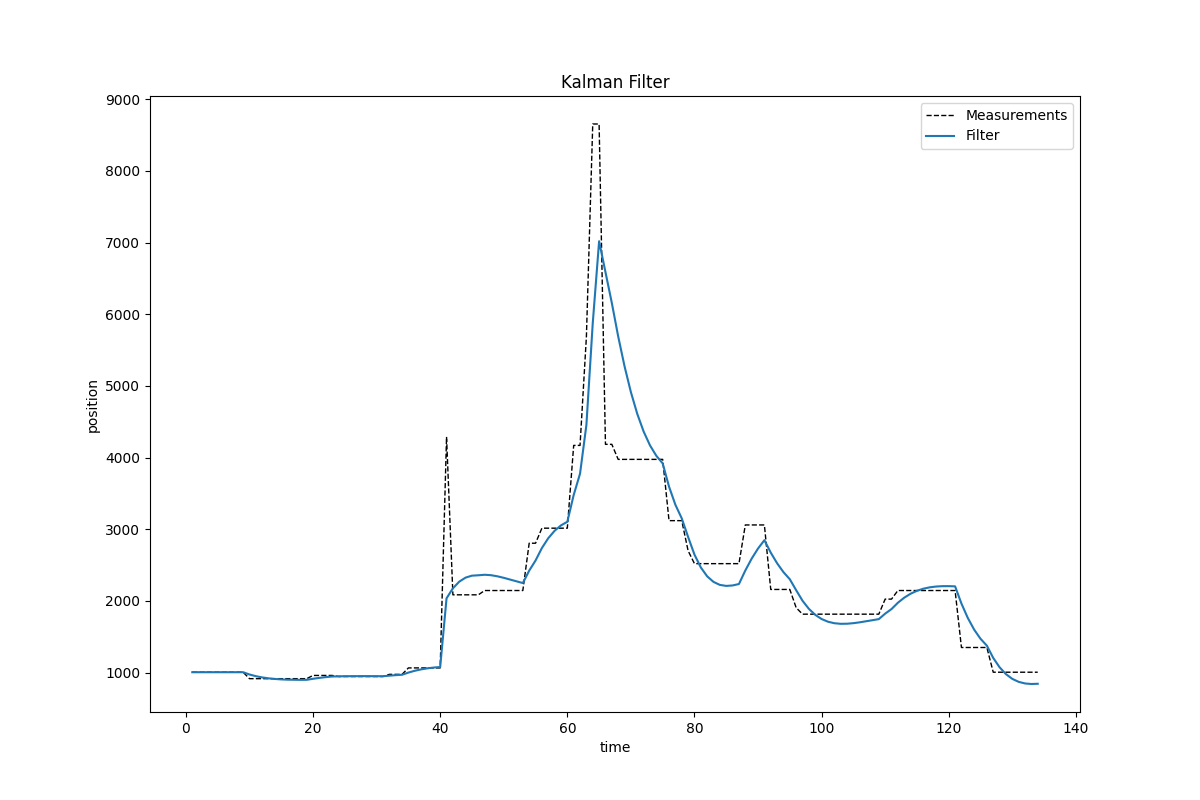
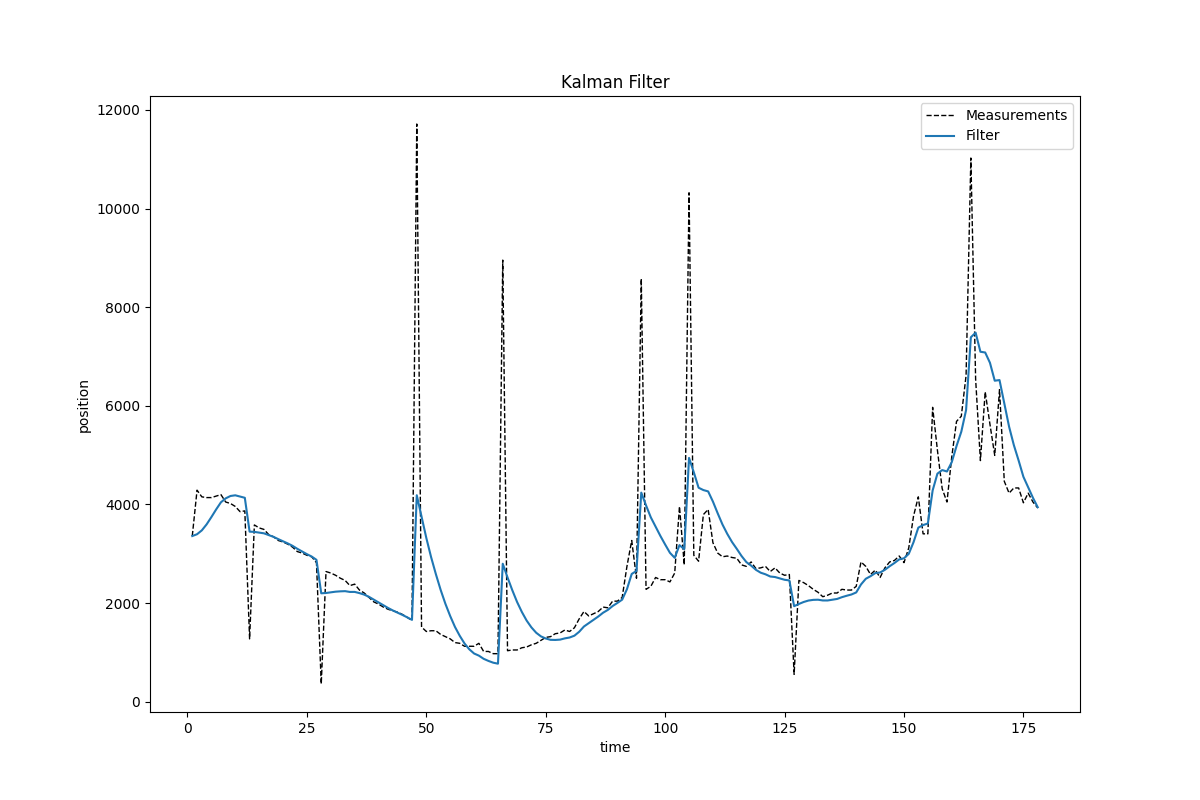
more kalman plotting

diff --git a/kalman_plotting_borrowed.py b/kalman_plotting_borrowed.py
@@ -1,0 +1,114 @@
+import numpy as np
+from matplotlib import pyplot as plt
+
+
+def plot_track(ps, actual, zs, cov, std_scale=1,
+               plot_P=True, y_lim=None,
+               xlabel='time', ylabel='position',
+               title='Kalman Filter'):
+
+    count = len(zs)
+    zs = np.asarray(zs)
+
+    cov = np.asarray(cov)
+    std = std_scale * np.sqrt(cov[:, 0, 0])
+    std_top = np.minimum(actual+std, [count + 10])
+    std_btm = np.maximum(actual-std, [-50])
+
+    std_top = actual + std
+    std_btm = actual - std
+
+    bp_plot_track(actual, c='k')
+    bp_plot_measurements(range(1, count + 1), zs)
+    bp_plot_filter(range(1, count + 1), ps)
+
+    plt.plot(std_top, linestyle=':', color='k', lw=1, alpha=0.4)
+    plt.plot(std_btm, linestyle=':', color='k', lw=1, alpha=0.4)
+    plt.fill_between(range(len(std_top)), std_top, std_btm,
+                     facecolor='yellow', alpha=0.2, interpolate=True)
+    plt.legend(loc=4)
+    plt.xlabel(xlabel)
+    plt.ylabel(ylabel)
+    if y_lim is not None:
+        plt.ylim(y_lim)
+
+    plt.xlim((0, count))
+    plt.title(title)
+    plt.show()
+
+    if plot_P:
+        ax = plt.subplot(121)
+        ax.set_title(r"$\sigma^2_x$ (pos variance)")
+        plot_covariance(cov, (0, 0))
+        ax = plt.subplot(122)
+        ax.set_title(r"$\sigma^2_\dot{x}$ (vel variance)")
+        plot_covariance(cov, (1, 1))
+        plt.show()
+
+
+def bp_plot_track(xs, ys=None, dt=None, label='Track', c='k', lw=2, **kwargs):
+    if ys is None and dt is not None:
+        ys = xs
+        xs = np.arange(0, len(ys)*dt, dt)
+    if ys is not None:
+        return plt.plot(xs, ys, color=c, lw=lw, ls=':', label=label, **kwargs)
+    else:
+        return plt.plot(xs, color=c, lw=lw, ls=':', label=label, **kwargs)
+    
+def bp_plot_filter(xs, ys=None, dt=None, c='C0', label='Filter', var=None, **kwargs):
+    """ plot result of KF with color `c`, optionally displaying the variance
+    of `xs`. Returns the list of lines generated by plt.plot()"""
+
+    if ys is None and dt is not None:
+        ys = xs
+        xs = np.arange(0, len(ys) * dt, dt)
+    if ys is None:
+        ys = xs
+        xs = range(len(ys))
+
+    lines = plt.plot(xs, ys, color=c, label=label, **kwargs)
+    if var is None:
+        return lines
+
+    var = np.asarray(var)
+    std = np.sqrt(var)
+    std_top = ys+std
+    std_btm = ys-std
+
+    plt.plot(xs, ys+std, linestyle=':', color='k', lw=2)
+    plt.plot(xs, ys-std, linestyle=':', color='k', lw=2)
+    plt.fill_between(xs, std_btm, std_top,
+                     facecolor='yellow', alpha=0.2)
+
+    return lines
+
+
+def bp_plot_measurements(xs, ys=None, dt=None, color='k', lw=1, label='Measurements',
+                      lines=False, **kwargs):
+    """ Helper function to give a consistent way to display
+    measurements in the book.
+    """
+    if ys is None and dt is not None:
+        ys = xs
+        xs = np.arange(0, len(ys)*dt, dt)
+
+    plt.autoscale(tight=False)
+    if lines:
+        if ys is not None:
+            return plt.plot(xs, ys, color=color, lw=lw, ls='--', label=label, **kwargs)
+        else:
+            return plt.plot(xs, color=color, lw=lw, ls='--', label=label, **kwargs)
+    else:
+        if ys is not None:
+            return plt.scatter(xs, ys, edgecolor=color, facecolor='none',
+                        lw=2, label=label, **kwargs),
+        else:
+            return plt.scatter(range(len(xs)), xs, edgecolor=color, facecolor='none',
+                        lw=2, label=label, **kwargs),
+
+
+def plot_covariance(P, index=(0, 0)):
+    ps = []
+    for p in P:
+        ps.append(p[index[0], index[1]])
+    plt.plot(ps)

diff --git a/kalman_plotting.py b/kalman_plotting.py
@@ -6,10 +6,38 @@ from matplotlib.patches import Circle
 import numpy as np
 import os
 
+def new_plotter(s, truth):
+    saved_states = s.x
+    measurements = s.z
+    estimated_positions = [state[0] for state in saved_states]  # Assuming position is the first state
+
+    plt.figure(figsize=(10, 6))
+    plt.plot(truth, label='True Positions', linestyle='--')
+    plt.plot(measurements, label='Measurements', marker='o', alpha=0.6)
+    plt.plot(estimated_positions, label='Kalman Filter Estimate', linewidth=2)
+    plt.xlabel('Time Step')
+    plt.ylabel('Position')
+    plt.title('Kalman Filter Tracking')
+    plt.legend()
+    plt.grid()
+    plt.show()
+
+    residuals = [measurement - estimate for measurement, estimate in zip(measurements, estimated_positions)]
+    plt.figure(figsize=(10, 6))
+    plt.plot(residuals, label='Residuals', marker='o')
+    plt.axhline(0, color='red', linestyle='--')
+    plt.xlabel('Time Step')
+    plt.ylabel('Residual')
+    plt.title('Residuals of Kalman Filter')
+    plt.legend()
+    plt.grid()
+    plt.show()
+
+
 def plot_results(ps, zs, cov, actual=None, std_scale=1,
                  plot_P=True, y_lim=None, 
                  xlabel='time', ylabel='position',
-                 title='Kalman Filter'):
+                 title='Kalman Filter', figname='kalmanplot'):
     """
     Combines measurements and filter plots into a single figure 
     and saves covariance plots as a separate figure.
@@ -38,7 +66,7 @@ def plot_results(ps, zs, cov, actual=None, std_scale=1,
     )
 
     # Save combined plot
-    output_file = os.path.join(output_folder, "combined_plot_acc.png")
+    output_file = os.path.join(output_folder, figname +"_results.png")
     fig.savefig(output_file)
     print(f"Saved combined plot to: {output_file}")
     plt.close(fig)
@@ -46,7 +74,7 @@ def plot_results(ps, zs, cov, actual=None, std_scale=1,
     # Create and save covariance plots
     if plot_P:
         fig = plot_covariance_fig(cov)
-        output_file = os.path.join(output_folder, "covariance_plots_acc.png")
+        output_file = os.path.join(output_folder, figname +"_covariance.png")
         fig.savefig(output_file)
         print(f"Saved covariance plots to: {output_file}")
         plt.close(fig)
@@ -59,7 +87,6 @@ def plot_combined_measurements_and_filter(xs, zs, ps, cov, std_scale=1,
     Creates a combined plot with measurements, filter results, and optional variance shading.
     """
     fig, ax = plt.subplots(figsize=figsize)
-
     # Plot measurements
     plot_measurements(xs, zs, ax=ax, label='Measurements', color='k', lines=True)
 

diff --git a/testpipeline.py b/testpipeline.py
@@ -4,6 +4,8 @@ import acceleration_vector
 import pandas as pd
 import os
 from matplotlib import pyplot as plt
+from kalman_plotting_borrowed import plot_track
+import numpy as np
 
 script_dir = os.path.dirname(os.path.abspath(__file__))  # Directory of the script
 datafile = os.path.join(script_dir, "data", "beaconv1.csv")  # Correctly join paths
@@ -17,28 +19,57 @@ if not os.path.exists(datafile):
     print(f"File not found: {datafile}")
 groundtruth = pd.read_csv(datafile)  # Read the CSV file
 
-pos_data = df['d1']
+pos_data = df['d3']/100
 acceleration_data = df['ax']
 
-true_dist = groundtruth['d4']
+true_dist = groundtruth['d2']
 
 groundtruth['timestamp'] = pd.to_datetime(groundtruth['timestamp'], format='%H:%M:%S')
 df['realtimestamp'] = pd.to_datetime(df['realtimestamp'], format='%H:%M:%S.%f')
 
+#we interpolate ground truth data to match shape of measurement data
+true_times = groundtruth['timestamp']  # True timestamps
+measurement_times = df['realtimestamp']  # Measurement timestamps
+true_times_numeric = (true_times - pd.Timestamp("1970-01-01")) // pd.Timedelta('1s')
+measurement_times_numeric = (measurement_times - pd.Timestamp("1970-01-01")) // pd.Timedelta('1s')
+interpolated_positions = np.interp(measurement_times_numeric, true_times_numeric, true_dist)
+
+if len(interpolated_positions) == len(pos_data):
+    df["groundtruth"] = interpolated_positions
+else:
+    print('lengths dont match')
+
+true_dist = df["groundtruth"]
 #kalman_filter_pos_vel_acc.kalman_filter(pos_data, acceleration_data, df['realtimestamp'])
 s, smooth_xs = kalman_filter_pos_vel.kalman_filter(pos_data, df['realtimestamp'])
+#can use s, smooth_xs to update the dataframe. s is a saver object that stores a bunch of info about the filter.
+#We will probably have to choose some things from s to store. 
+
+xs = s.x
+zs = s.z
+cov = s.P
+
+plot_track(xs[:, 0], true_dist, zs, cov)
+
 plt.figure()
-plt.plot(groundtruth['timestamp'], true_dist*100, label="truth")
+plt.plot(df['realtimestamp'], true_dist, label="truth")
 plt.plot(df['realtimestamp'], s.z, label="measurement")
 plt.plot(df['realtimestamp'], s.x[:, 0], label="filter")
 plt.plot(df['realtimestamp'], smooth_xs[:, 0], label="smooth") #might not use, cause movement is not super smooth
 plt.title(f"R={s.R[0,0]}")
 plt.legend()
+plt.show()
 
+'''import numpy as np 
+plt.figure()
+traces = [np.trace(cov) for cov in s.P]
+plt.plot(traces)
+plt.title("Trace of Covariance Over Time")
+plt.show()'''
 """ plt.figure()
 plt.plot(groundtruth['timestamp'], true_dist, label="truth")
 plt.legend() """
 
-plt.show()
+
 
 

diff --git a/kalman_filter_pos_vel.py b/kalman_filter_pos_vel.py
@@ -60,10 +60,10 @@ def kalman_filter(zs, times):
     dt = average_difference
     #Use initial measurement to set x0. Can take x1-x0=v0
     x = np.array([zs[0], 0]) #initial state.
-    P = np.diag([1., 9.]) #initial state uncertainty 
+    P = np.diag([5., 9.]) #initial state uncertainty 
     #(velocity p should be max 9. If we make sure they are held still for a few seconds at initialization, we can lower it to like 1)
     Q = Q_discrete_white_noise(dim=2, dt=dt, var=2.35) #process noise
-    R = np.array([[10000.]]) #measurement covariance matrix /sensor variance.
+    R = np.array([[10.]]) #measurement covariance matrix /sensor variance.
 
     #df_data = pd.read_csv("bluetooth-tracking-ultimate\makecharts\walking test to 60_cleaned.csv")
     #zs = df_data["distance"]
@@ -80,4 +80,6 @@ def kalman_filter(zs, times):
     #plot xs
     s.to_array()
     #plot_results(s.x[:, 0], s.z, s.P)
+
+    #this returns a saver object with all the information about the filter
     return s, smooth_xs

diff --git a/data_manipulation.py b/data_manipulation.py
@@ -44,6 +44,11 @@ measurement_times_numeric = (measurement_times - pd.Timestamp("1970-01-01")) // 
 # Interpolate true positions to match the measurement times
 interpolated_positions = np.interp(measurement_times_numeric, true_times_numeric, true_positions)
 
+if len(interpolated_positions) == len(measurements):
+    df["groundtruth"] = interpolated_positions
+else:
+    print('lengths dont match')
+
 # Now calculate residuals (measurements - interpolated true positions)
 residuals = measurements - interpolated_positions
 
